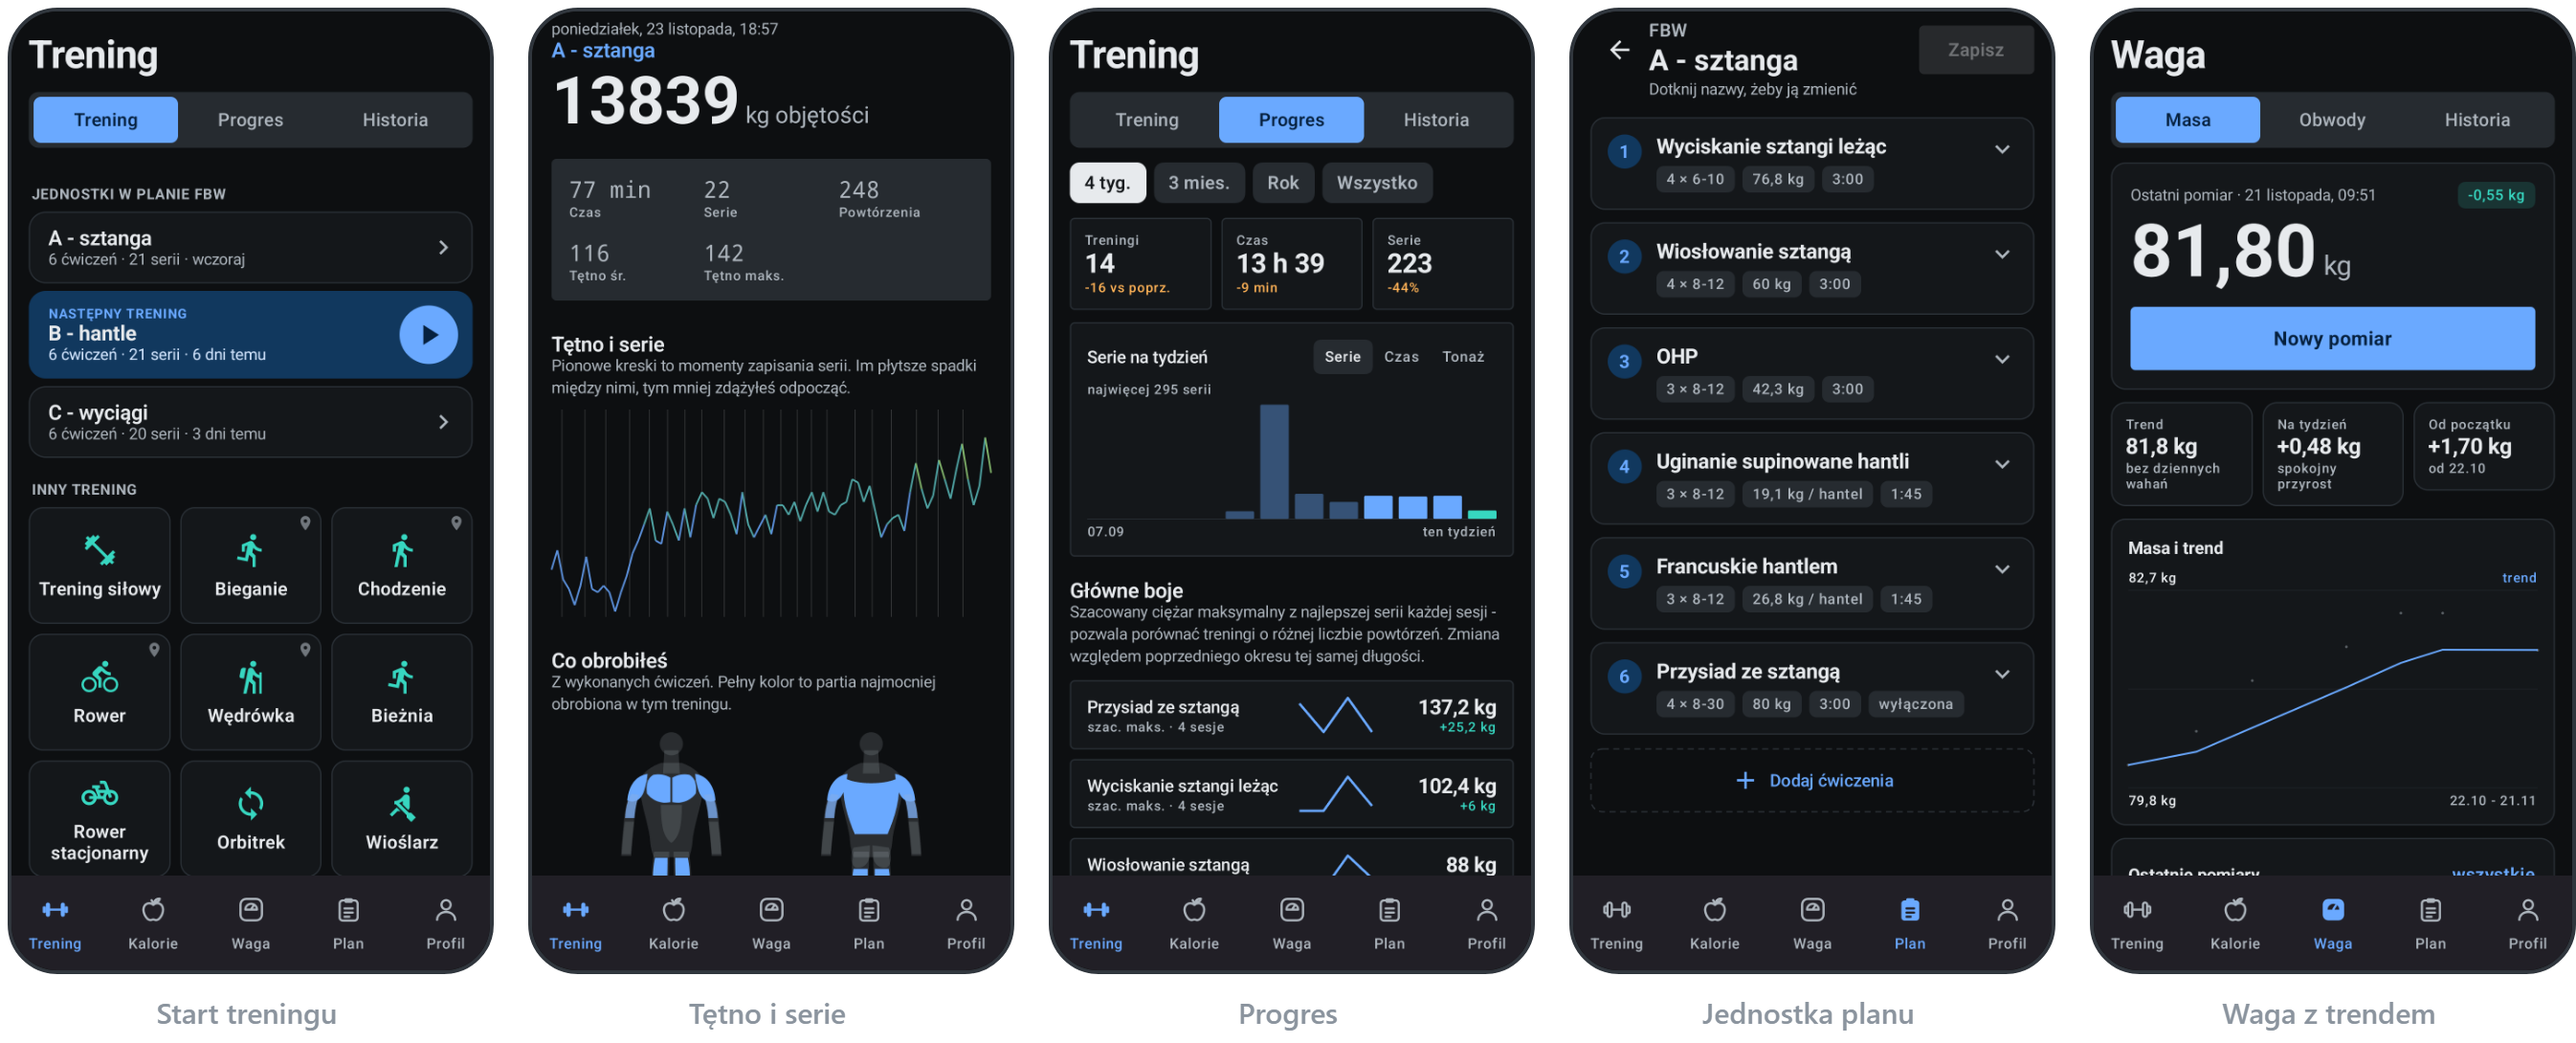
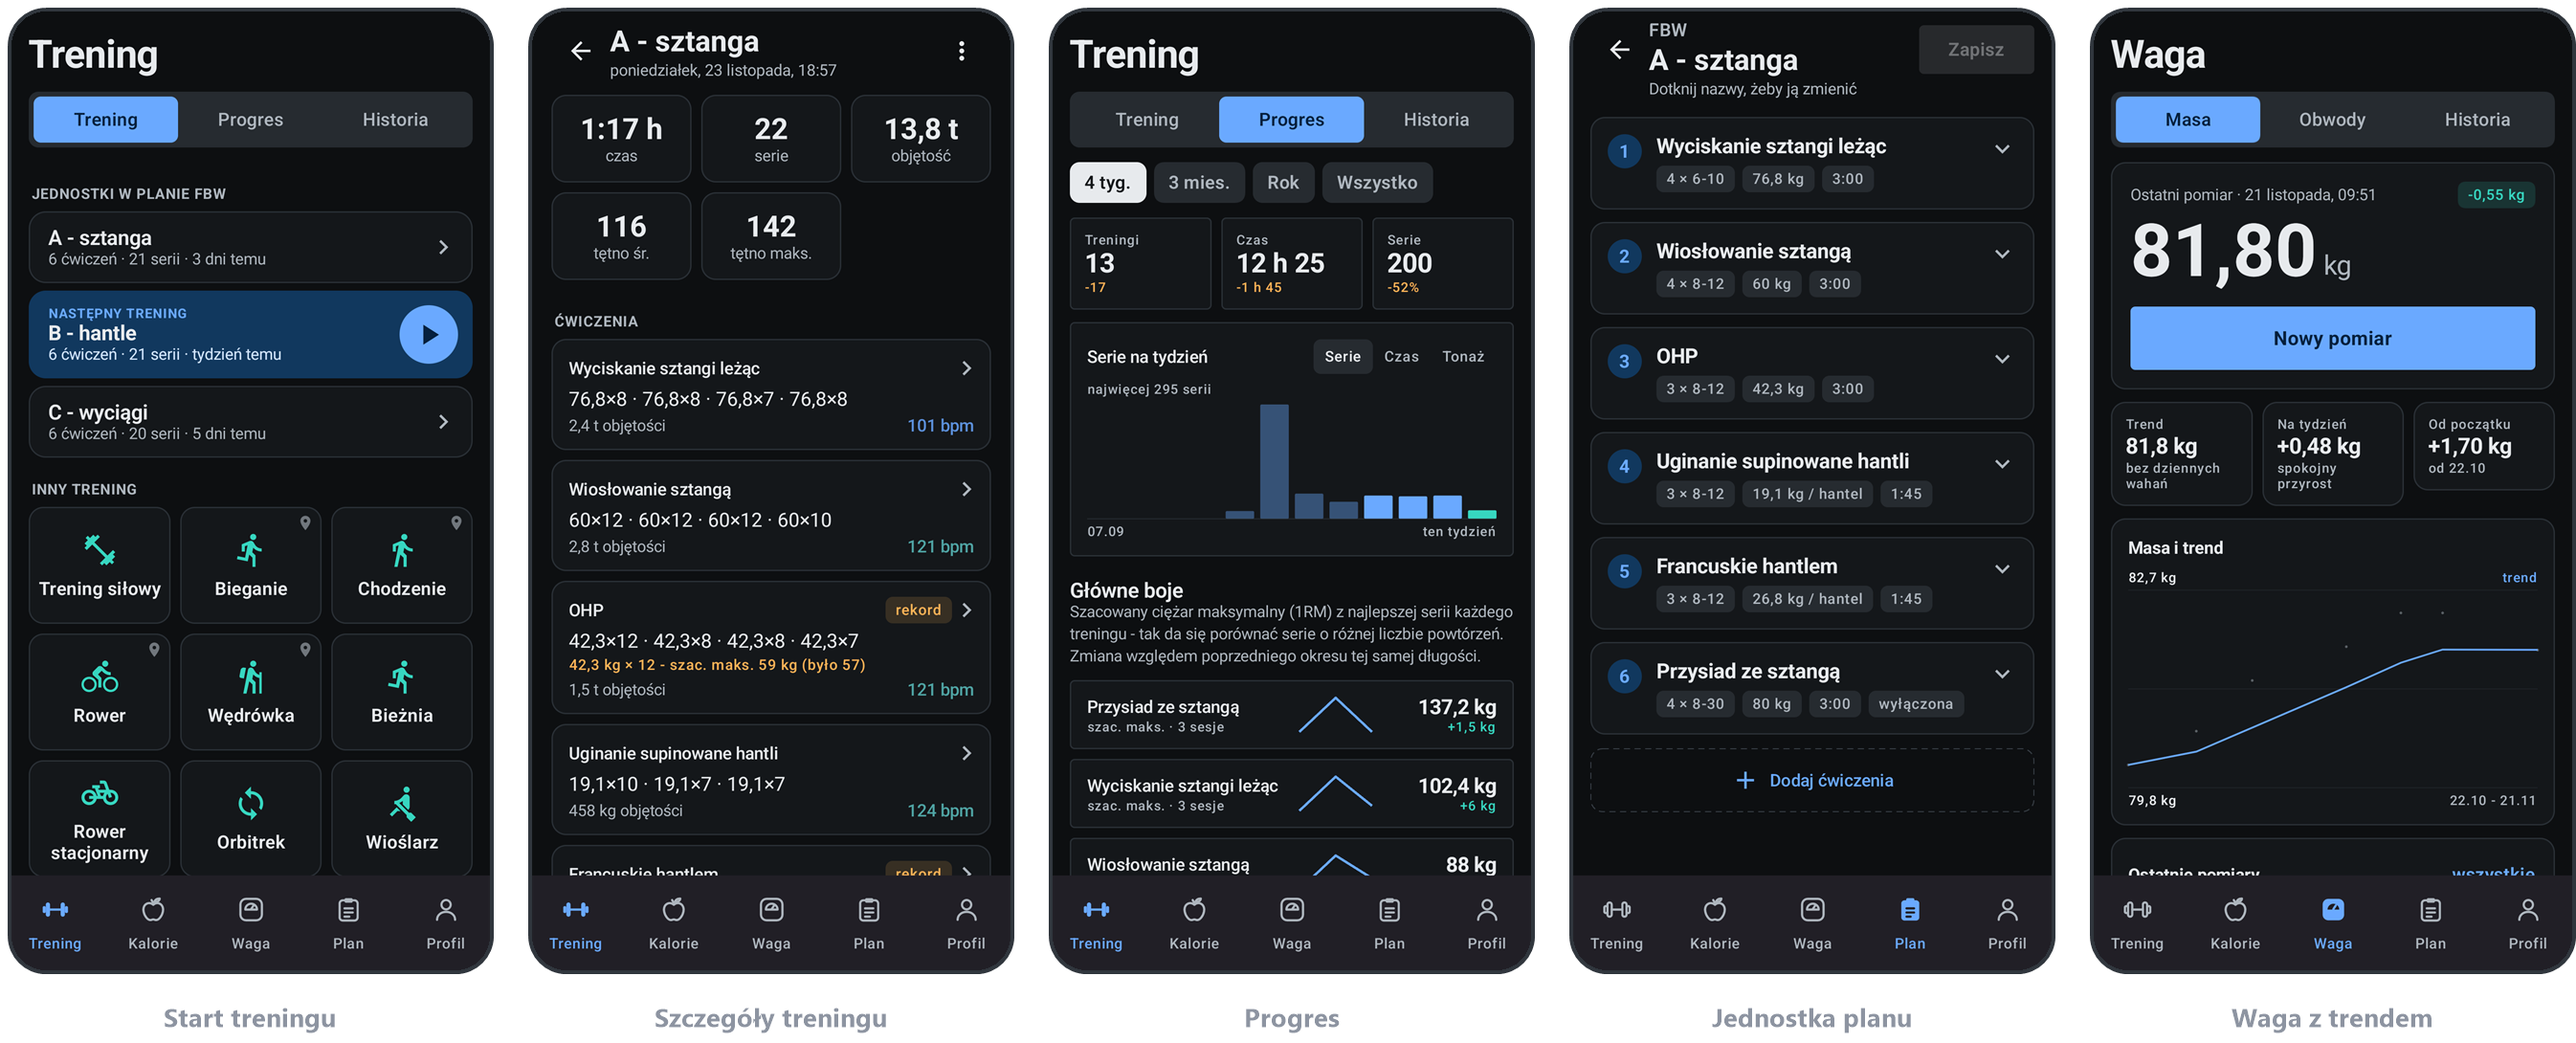
README: nowe ekrany telefonu i aktualne fakty
Obrazek telefonu zlozony od nowa z biezacych zrzutow - drugi panel
pokazywal stare szczegoly treningu z mapa miesni, trzeci stare napisy
Progresu. Uklad, obwodki i podpisy jak w poprzednim.

README modulu mowil, ze do internetu wychodzi tylko zapytanie do Open
Food Facts; od map trasy aplikacja pobiera tez podklady z OpenFreeMap.
Do tego baza w wersji 32 z 25 tabelami (bylo 24 i 21), katalog track/
w ukladzie pakietow i zmierzone rozmiary APK: release ok. 30 MB, debug
prawie 100, glownie przez natywna biblioteke map.

W kafelku Treningi w Progresie sama liczba zmiany, jak w sasiednich -
dopisek "wobec poprz." zawijal kafelek na dwie linie.

diff --git a/GymBro/app/src/main/java/pl/gymbro/ui/ProgressScreen.kt b/GymBro/app/src/main/java/pl/gymbro/ui/ProgressScreen.kt
@@ -249,9 +249,15 @@ private fun Tile(modifier: Modifier, label: String, value: String, change: Pair<
     }
 }
 
-/** Zmiana i to, czy jest w dobrą stronę. Zero to brak zmiany, nie porażka. */
+/**
+ * Zmiana i to, czy jest w dobrą stronę. Zero to brak zmiany, nie porażka.
+ *
+ * Sama liczba, jak w kafelkach czasu i serii obok: dopisek „wobec poprz."
+ * zawijał kafelek na dwie linie, a porównanie z poprzednim okresem i tak
+ * opisuje ekran.
+ */
 private fun diffText(d: Int): Pair<String, Boolean>? =
-    if (d == 0) "bez zmian" to true else (if (d > 0) "+$d" else "$d") + " wobec poprz." to (d > 0)
+    if (d == 0) "bez zmian" to true else (if (d > 0) "+$d" else "$d") to (d > 0)
 
 private fun hoursDiff(min: Long): Pair<String, Boolean>? =
     if (min == 0L) null else (if (min > 0) "+" else "-") + hoursShort(kotlin.math.abs(min)) to (min > 0)

diff --git a/GymBro/README.md b/GymBro/README.md
@@ -43,7 +43,8 @@ lokalnie bez własnego keystore'a. To nie jest jeszcze wersja do publikacji -
 służy do pomiarów. Compose w buildzie debug działa kilkukrotnie wolniej, bo
 kompilator pracuje w trybie diagnostycznym, a ART nie optymalizuje kodu
 oznaczonego jako debuggable; wrażenia z debuga nic nie mówią o rzeczywistości.
-Po minifikacji wydanie waży niecałe 5 MB, debug prawie 70.
+Po minifikacji wydanie waży około 30 MB, debug prawie 100 - większość to
+natywna biblioteka map (MapLibre), osobno dla `arm64-v8a` i `x86_64`.
 
 [`tools/bench.sh`](tools/bench.sh) mierzy przełączanie zakładek przez
 `dumpsys gfxinfo` na podłączonym telefonie. Ma zaszyte pięć pozycji zakładek,
@@ -70,6 +71,8 @@ app/src/main/java/pl/gymbro/
 │                      zapytania do Open Food Facts
 ├── health/            Health Connect: import treningów i metryk dziennych
 ├── ble/               waga łazienkowa: skan, sterowniki rodzin wag, ustalanie wyniku
+├── track/             bieg, spacer i rower nagrywane telefonem: lokalizacja
+│                      w usłudze pierwszoplanowej, punkty trasy na bieżąco do bazy
 └── ui/                ekrany Compose i wspólne elementy
 ```
 
@@ -77,7 +80,7 @@ Testy jednostkowe leżą równolegle w `app/src/test/java/pl/gymbro/`.
 
 ## Baza
 
-`data/Schema.kt`, `SQLiteOpenHelper`, obecnie wersja 24, dwadzieścia jeden
+`data/Schema.kt`, `SQLiteOpenHelper`, obecnie wersja 32, dwadzieścia pięć
 tabel. Świadomie bez Room: Room wymaga procesora adnotacji KSP, czyli kolejnej
 wtyczki Gradle z własną macierzą zgodności wersji.
 
@@ -160,8 +163,14 @@ Jedyne gniazdo nasłuchujące w tej aplikacji stoi na **pętli zwrotnej telefonu
 (`127.0.0.1:48627`) i obsługuje wyłącznie zegarek - szczegóły w
 [README w korzeniu](../README.md).
 
-Do internetu wychodzi jedna rzecz: zapytanie o produkt po zeskanowaniu kodu
-kreskowego, do `world.openfoodfacts.org` (`net/OpenFoodFacts.kt`). Leci w nim
-sam kod kreskowy. Skaner kodów to moduł Google Play Services, dociągany przez
-system przy pierwszym użyciu. Trening, pomiary i dziennik jedzenia nie
-opuszczają telefonu.
+Do internetu wychodzą dwie rzeczy:
+
+- zapytanie o produkt po zeskanowaniu kodu kreskowego, do
+  `world.openfoodfacts.org` (`net/OpenFoodFacts.kt`). Leci w nim sam kod
+  kreskowy. Skaner kodów to moduł Google Play Services, dociągany przez system
+  przy pierwszym użyciu;
+- podkłady mapy trasy, z `tiles.openfreemap.org` (`ui/RouteMap.kt`) - bez klucza
+  i konta. Serwer map widzi, który obszar jest oglądany, bo o niego prosi
+  aplikacja; samej trasy nie dostaje - rysuje ją telefon.
+
+Trening, trasy, pomiary i dziennik jedzenia nie opuszczają telefonu.

diff --git a/README.md b/README.md
@@ -5,7 +5,7 @@
 **Dziennik treningu siłowego na Androida.**<br>
 Plan, serie, progresja, jedzenie i waga - w jednej aplikacji, na jednym telefonie.
 
-<img src=".github/readme/telefon.png" alt="Ekrany aplikacji: start treningu, tętno i serie, progres, jednostka planu, waga">
+<img src=".github/readme/telefon.png" alt="Ekrany aplikacji: start treningu, szczegóły treningu, progres, jednostka planu, waga">
 
 </div>
 
@@ -13,7 +13,7 @@ Plan, serie, progresja, jedzenie i waga - w jednej aplikacji, na jednym telefoni
 
 - **Plan i trening.** Gotowe plany (FBW, PPL i ponad pięćdziesiąt innych) albo własne jednostki. Trening prowadzi się ćwiczenie po ćwiczeniu, z odliczaniem przerwy i pokrętłem do ciężaru.
 - **Progresja.** Po treningu aplikacja proponuje ciężar i powtórzenia na następny raz. Liczy je z tego, co faktycznie poszło, i z talerzy, które naprawdę leżą na siłowni.
-- **Historia i progres.** Tętno na tle serii, rekordy, szacowany maks. w głównych bojach, mapa partii mięśni. Bieg, spacer i rower nagrywa się z GPS-em.
+- **Historia i progres.** Każdy trening z seriami, tętnem na tle serii i porównaniem z poprzednim razem. Rekordy, szacowany maks. w głównych bojach i tygodniowa mapa partii w Progresie. Bieg, spacer i rower nagrywa się z GPS-em, z mapą trasy.
 - **Jedzenie.** Dziennik kalorii z bazą produktów i własnymi daniami. Cel liczy się z fazy (redukcja, utrzymanie, masa) i z wydatku wyliczonego z ważeń.
 - **Waga.** Pomiar z wagi łazienkowej po Bluetooth, trend masy i obwody.
 
